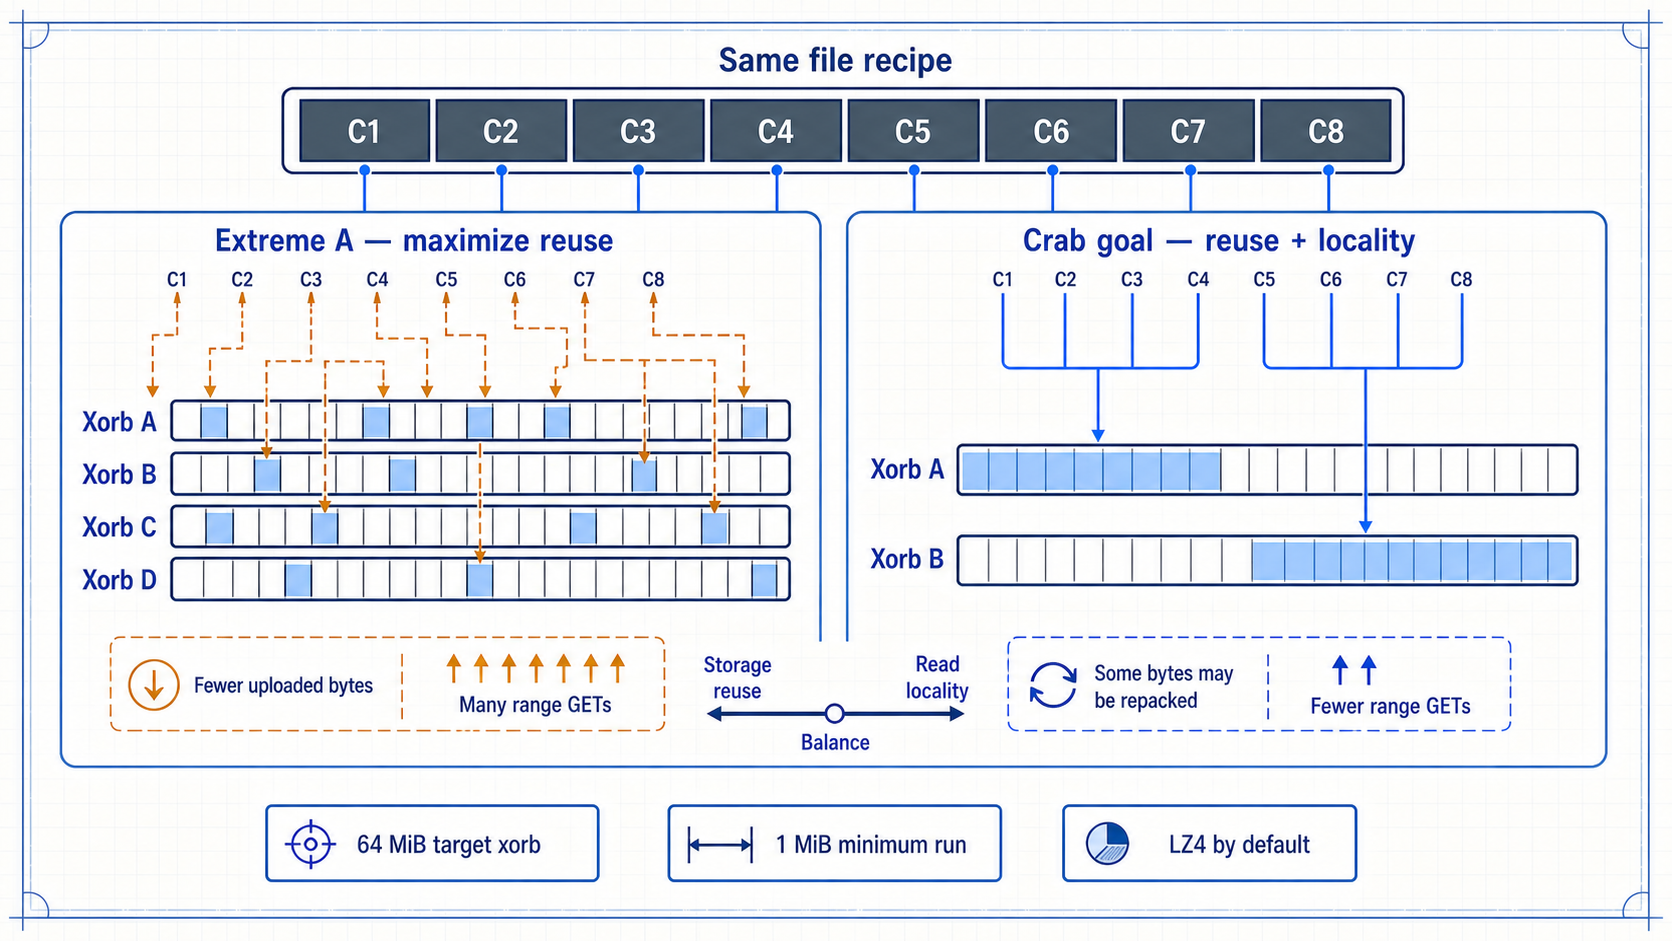
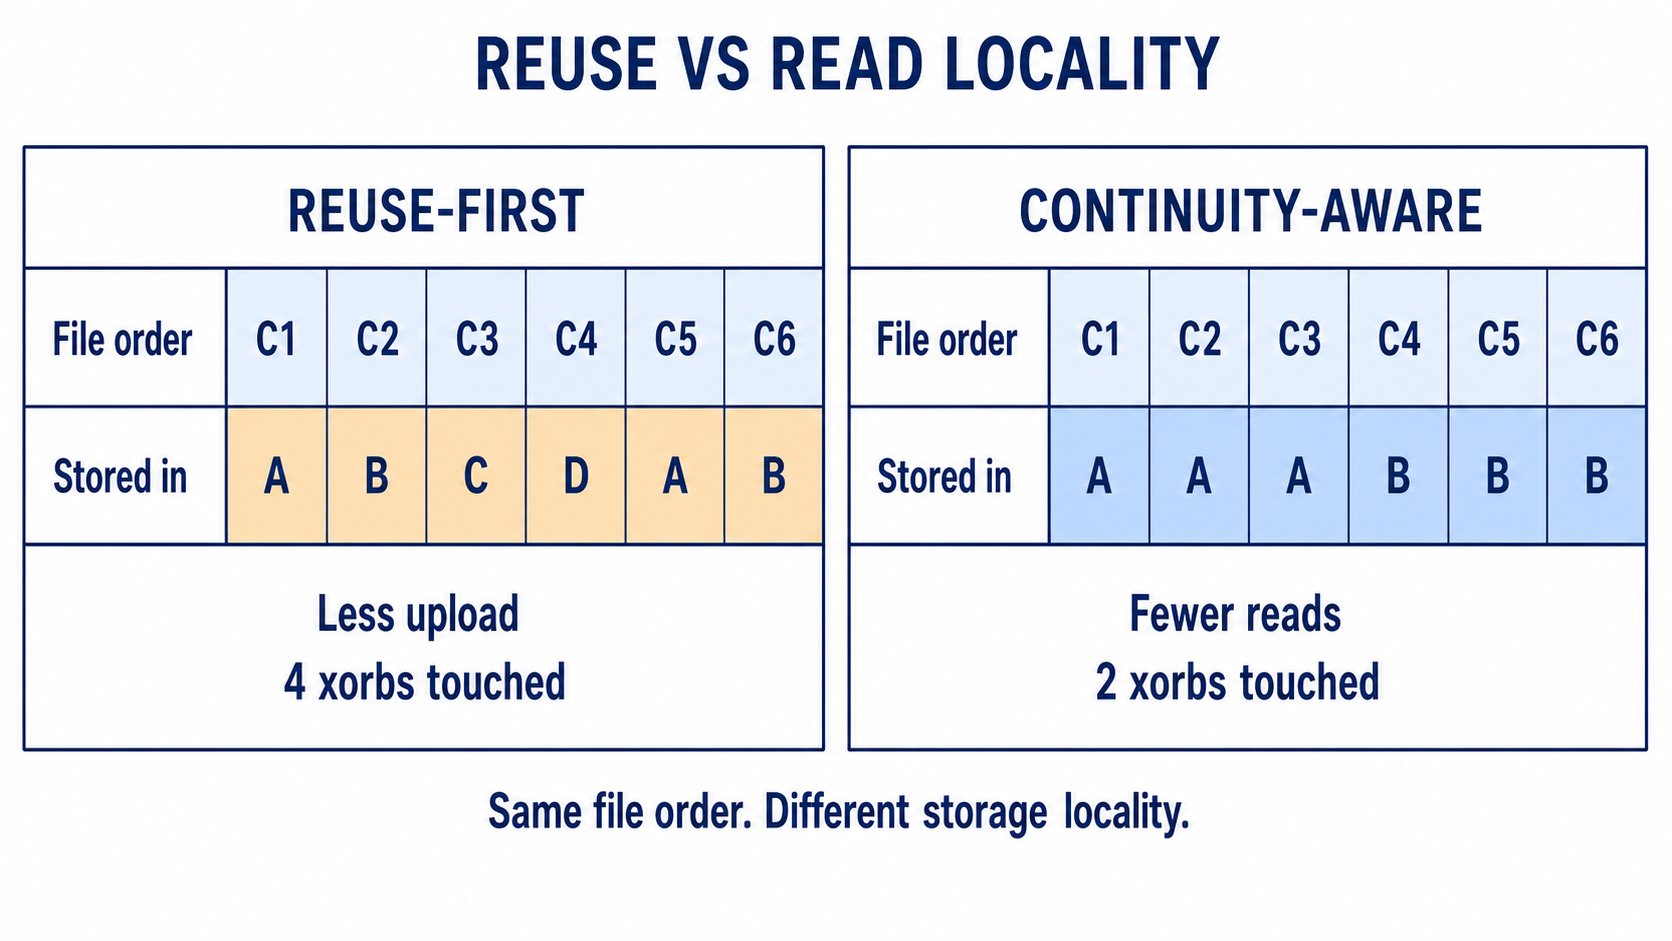
docs: simplify chunking and locality visuals

diff --git a/launch/imgs/prompts/07-gearhash-content-defined-chunking.md b/launch/imgs/prompts/07-gearhash-content-defined-chunking.md
@@ -9,31 +9,40 @@ output: 07-gearhash-content-defined-chunking.png
 
 # Gearhash Content-Defined Chunking
 
-Use case: scientific-educational infographic for a technical open-source launch post.
+Use case: scientific-educational infographic.
 
-Primary request: redraw this as a crystal-clear explanation of how content-defined chunking reacts to three different local edits. The viewer must immediately see exactly what was inserted, deleted, or modified; which nearby chunks receive new identities; and where unchanged chunk identities resume.
+Primary request: completely redraw the reference image as a minimal three-card comparison. Preserve only its blueprint palette. Discard its composition, long ribbons, guides, arrows, brackets, and side panels.
 
-Layout: one full-width `Original file` ribbon across the top. Beneath it, three equal comparison rows labeled `1. Insert`, `2. Delete`, and `3. Modify`. Every row begins from the same original content. Align reused chunks vertically wherever possible so identity preservation is visually obvious.
+Layout: one title line, then exactly three equal-width cards in one horizontal row. Cards share identical height, padding, baselines, row positions, cell sizes, border radius, and stroke width. All edges snap to one grid. Nothing overlaps.
 
-ZONES:
-- Top original ribbon: six large, plainly separated chunks labeled `C1`, `C2`, `C3`, `C4`, `C5`, `C6`. Use the same distinct blue fill for all original chunks.
-- Insert row: show a narrow amber byte segment visibly added between original content, labeled `+ inserted bytes`. Nearby output chunks become amber `N1` and `N2`. Farther right, unchanged blue chunks `C4`, `C5`, and `C6` reappear with the same labels as the original.
-- Delete row: show a short original byte segment above the ribbon with a strike-through and downward removal mark, labeled `− deleted bytes`. The edited ribbon must be visibly shorter. Nearby output chunks become amber `N1` and `N2`. Farther right, unchanged blue chunks `C4`, `C5`, and `C6` reappear.
-- Modify row: show one small amber patch inside the original content, labeled `modified bytes`. The total ribbon length stays the same. Only the local output area becomes amber `N1`; blue chunks `C4`, `C5`, and `C6` remain unchanged.
-- A single vertical dashed line at the first reused `C4` in all three rows, labeled `boundaries resynchronize`.
-- Small footer facts: `Gearhash CDC`, `64 KiB target`, `128 KiB cap`.
+CARD TEMPLATE:
+- Heading at one fixed baseline.
+- `Before` label at one fixed x-position, followed by a compact row of equal rectangular chunk cells.
+- `After` label directly below at the same x-position, followed by another compact row using the same cell dimensions.
+- One short result label at the bottom.
+- No arrows or connector lines anywhere.
 
-FLOW:
-- Thin vertical identity guides connect original `C4`, `C5`, and `C6` to the identically labeled blue chunks in every edit row.
-- Amber is reserved exclusively for inserted, deleted, modified, and locally rechunked bytes.
-- Blue chunks with the same labels mean byte-identical reusable chunks. Never color changed chunks blue.
+CARD 1 — `INSERT`:
+- Before row: four blue cells `A`, `B`, `C`, `D`.
+- After row: blue `A`, narrow amber `+`, amber `X`, blue `C`, blue `D`.
+- Result: `C and D reused`.
 
-LABELS: Render only these labels, spelled exactly: `Original file`, `1. Insert`, `2. Delete`, `3. Modify`, `+ inserted bytes`, `− deleted bytes`, `modified bytes`, `C1`, `C2`, `C3`, `C4`, `C5`, `C6`, `N1`, `N2`, `boundaries resynchronize`, `unchanged chunks reused`, `Gearhash CDC`, `64 KiB target`, `128 KiB cap`.
+CARD 2 — `DELETE`:
+- Before row: blue `A`, blue `B`, narrow amber struck-through `−`, blue `C`, blue `D`.
+- After row: blue `A`, amber `X`, blue `C`, blue `D`. This row is visibly shorter.
+- Result: `C and D reused`.
 
-COLORS: off-white background, pale gray grid, deep slate outlines, engineering-blue unchanged chunks, light-blue identity guides, amber edited bytes and new local chunks, navy footer facts. Color values are rendering guidance only; never display color names or hex values.
+CARD 3 — `MODIFY`:
+- Before row: four blue cells `A`, `B`, `C`, `D`.
+- After row: blue `A`, amber `X`, blue `C`, blue `D`. Both rows have equal total length.
+- Result: `C and D reused`.
 
-STYLE: technical algorithm blueprint; flat 2D; precise equal-height ribbons; large labels; strong alignment; generous whitespace. The insertion must add visible length, deletion must remove visible length, and modification must preserve length. No 3D, gradients, shadows, binary filler text, people, mascots, logos, extra chunk IDs, or unlisted size values.
+FOOTER: one quiet centered line: `Local edit → local new chunk → later chunks reused`.
 
-Avoid: ambiguous arrows, curved spaghetti connectors, tiny byte cells, decorative icons, or any depiction where the edit itself cannot be located instantly.
+LABELS: Render only these labels, spelled exactly: `CONTENT-DEFINED CHUNKING`, `INSERT`, `DELETE`, `MODIFY`, `Before`, `After`, `A`, `B`, `C`, `D`, `+`, `−`, `X`, `C and D reused`, `Local edit → local new chunk → later chunks reused`.
+
+COLORS: solid off-white background, deep slate outlines and text, engineering-blue unchanged chunks, amber edit markers and new chunk `X`. Color values are rendering guidance only; never display color names or hex values.
+
+STYLE: flat 2D minimal blueprint table; perfectly straight horizontal and vertical edges; uniform cells; exact alignment; generous whitespace; large readable text. No perspective, shadows, gradients, icons, curves, grids inside cells, variable box sizes, floating labels, arrows, connector lines, metrics, or extra text.
 
 ASPECT: 16:9 landscape.

diff --git a/launch/imgs/prompts/08-continuity-aware-xorb-packing.md b/launch/imgs/prompts/08-continuity-aware-xorb-packing.md
@@ -9,32 +9,36 @@ output: 08-continuity-aware-xorb-packing.png
 
 # Continuity-Aware Xorb Packing
 
-Use case: scientific-educational comparison infographic for a technical open-source launch post.
+Use case: scientific-educational comparison infographic.
 
-Primary request: redraw the deduplication-versus-continuity tradeoff so it can be understood in seconds. Compare the same ordered file under two storage-layout extremes. Make stored-byte reuse and hydration read cost separate, directly labeled outcomes.
+Primary request: completely redraw the reference image as a minimal two-column assignment table. Preserve only its blueprint palette. Discard its containers, arrows, balance scale, fact cards, icons, and detailed storage tracks.
 
-Layout: a full-width ordered recipe at the top labeled `Same file recipe`, containing eight equal chunks `C1` through `C8`. Below it, two large side-by-side comparison panels of equal size.
+Layout: one title line, then exactly two equal-width panels. Both panels share identical dimensions, padding, row heights, column widths, baselines, and stroke widths. All cells align to a strict six-column grid. No connector lines are needed.
 
-ZONES:
-- Left panel heading: `Extreme A — maximize reuse`.
-- Left storage: four clearly separate containers labeled `Xorb A`, `Xorb B`, `Xorb C`, `Xorb D`. The ordered recipe points to alternating small ranges across all four containers. Use multiple separated arrows and label the consequence `Fewer uploaded bytes` and `Many range GETs`.
-- Right panel heading: `Crab goal — reuse + locality`.
-- Right storage: two containers labeled `Xorb A` and `Xorb B`. The same ordered recipe maps into two long contiguous runs with only two simple arrows. Label the consequence `Some bytes may be repacked` and `Fewer range GETs`.
-- Center balance marker between panels: `Storage reuse` on the left end, `Read locality` on the right end, and `Balance` at the midpoint.
-- Bottom facts, clearly separate from the conceptual comparison: `64 MiB target xorb`, `1 MiB minimum run`, `LZ4 by default`.
+PANEL TEMPLATE:
+- Heading at one fixed baseline.
+- Row label `File order` followed by six equal cells: `C1`, `C2`, `C3`, `C4`, `C5`, `C6`.
+- Row label `Stored in` directly below, followed by six equal assignment cells aligned exactly under the file-order cells.
+- One two-line result block below the rows.
 
-FLOW:
-- Both panels start from the exact same ordered recipe `C1` through `C8`.
-- In the left panel, connectors deliberately preserve recipe order while touching many separate xorb ranges.
-- In the right panel, connectors preserve the same recipe order while touching two contiguous ranges.
-- Make the causal relationship explicit: more scattered reuse means more range requests; more continuity means fewer range requests.
+LEFT PANEL:
+- Heading: `REUSE-FIRST`.
+- Stored-in row: `A`, `B`, `C`, `D`, `A`, `B`.
+- Use amber for the assignment cells to emphasize scattering.
+- Result: `Less upload` and `4 xorbs touched`.
 
-LABELS: Render only these labels, spelled exactly: `Same file recipe`, `C1`, `C2`, `C3`, `C4`, `C5`, `C6`, `C7`, `C8`, `Extreme A — maximize reuse`, `Xorb A`, `Xorb B`, `Xorb C`, `Xorb D`, `Fewer uploaded bytes`, `Many range GETs`, `Crab goal — reuse + locality`, `Some bytes may be repacked`, `Fewer range GETs`, `Storage reuse`, `Balance`, `Read locality`, `64 MiB target xorb`, `1 MiB minimum run`, `LZ4 by default`.
+RIGHT PANEL:
+- Heading: `CONTINUITY-AWARE`.
+- Stored-in row: `A`, `A`, `A`, `B`, `B`, `B`.
+- Use engineering blue for the assignment cells to emphasize contiguous runs.
+- Result: `Fewer reads` and `2 xorbs touched`.
 
-COLORS: off-white background, pale gray grid, deep slate recipe chunks, engineering-blue continuity-aware mapping, navy xorb containers, light-blue contiguous ranges, amber scattered connectors and range-request penalty. Color values are rendering guidance only; never display color names or hex values.
+FOOTER: one quiet centered line: `Same file order. Different storage locality.`
 
-STYLE: rigorous storage-engine comparison blueprint; flat 2D; straight connectors; large readable labels; identical recipe in both panels; unmistakable contrast between many scattered reads and two contiguous reads. No 3D, gradients, shadows, people, mascots, vendor logos, 25% threshold label, or extra numbers.
+LABELS: Render only these labels, spelled exactly: `REUSE VS READ LOCALITY`, `REUSE-FIRST`, `CONTINUITY-AWARE`, `File order`, `Stored in`, `C1`, `C2`, `C3`, `C4`, `C5`, `C6`, `A`, `B`, `C`, `D`, `Less upload`, `4 xorbs touched`, `Fewer reads`, `2 xorbs touched`, `Same file order. Different storage locality.`.
 
-Avoid: a generic XorbBuilder black box, unlabeled arrows, duplicated facts beside both panels, or any layout that mixes the dedup decision with compression.
+COLORS: solid off-white background, deep slate outlines and text, amber left assignment row, engineering-blue right assignment row, pale blue file-order cells. Color values are rendering guidance only; never display color names or hex values.
+
+STYLE: flat 2D minimal blueprint table; perfectly straight edges; six equal columns; precise row alignment; generous whitespace; large readable text. No perspective, shadows, gradients, icons, curves, arrows, connector lines, storage tracks, policy values, balance scales, floating labels, or extra text.
 
 ASPECT: 16:9 landscape.

diff --git a/launch/crab-x-launch-series.md b/launch/crab-x-launch-series.md
@@ -164,15 +164,15 @@ Technical overview: https://crab.build/blog/git-for-large-files-at-any-scale
 
 **Image 1 — Content-defined boundaries**
 
-![Gearhash content-defined chunking comparing insertion, deletion, and modification against one original file, with local new chunks followed by unchanged reused chunks.](imgs/07-gearhash-content-defined-chunking.png)
+![Three minimal before-and-after cards showing how insertion, deletion, and modification create one local new chunk while later chunks are reused.](imgs/07-gearhash-content-defined-chunking.png)
 
-Alt text: One original segmented file is compared with three local edits. Inserted, deleted, and modified bytes are highlighted in amber; only nearby chunks receive new identities, while later blue chunks C4 through C6 retain their original identities after boundaries resynchronize.
+Alt text: Three aligned cards compare insertion, deletion, and modification. Each edit produces one amber local chunk X, while the later blue chunks C and D keep their identities.
 
 **Image 2 — Deduplication versus continuity**
 
-![Comparison of maximal scattered chunk reuse with Crab's balance of reuse and xorb locality, separating uploaded-byte savings from hydration range-request cost.](imgs/08-continuity-aware-xorb-packing.png)
+![Two aligned assignment tables compare a reuse-first file touching four xorbs with a continuity-aware file touching two xorbs.](imgs/08-continuity-aware-xorb-packing.png)
 
-Alt text: The same ordered eight-chunk file is mapped two ways. Maximizing reuse scatters its terms across four xorbs and requires many range requests; continuity-aware packing uses two long xorb ranges, may repack some bytes, and requires fewer range requests.
+Alt text: Both panels contain file chunks C1 through C6 in the same order. The reuse-first assignment alternates among xorbs A through D, while the continuity-aware assignment groups the first three chunks in A and the next three in B.
 
 ## Post 5 — How a serverless push stays consistent
 

diff --git a/launch/imgs/outline.md b/launch/imgs/outline.md
@@ -42,10 +42,10 @@
 
 7. `07-gearhash-content-defined-chunking.png`
    - Position: after the content-defined chunking rationale.
-   - Purpose: compare insertion, deletion, and modification against one original file, showing the local rechunking window and the exact point where unchanged chunk identities resume.
+   - Purpose: use three minimal before/after cards to show that insertion, deletion, and modification create a local new chunk while later chunks retain their identities.
 8. `08-continuity-aware-xorb-packing.png`
    - Position: after the xorb packing rationale.
-   - Purpose: contrast maximal scattered reuse with Crab's balance of reuse and contiguous reads, while keeping verified xorb/run/compression facts separate from the conceptual tradeoff.
+   - Purpose: use two aligned assignment tables to show how the same file order can touch four scattered xorbs or two contiguous xorbs.
 
 ## Post 5 — Safe Push Publication
 
